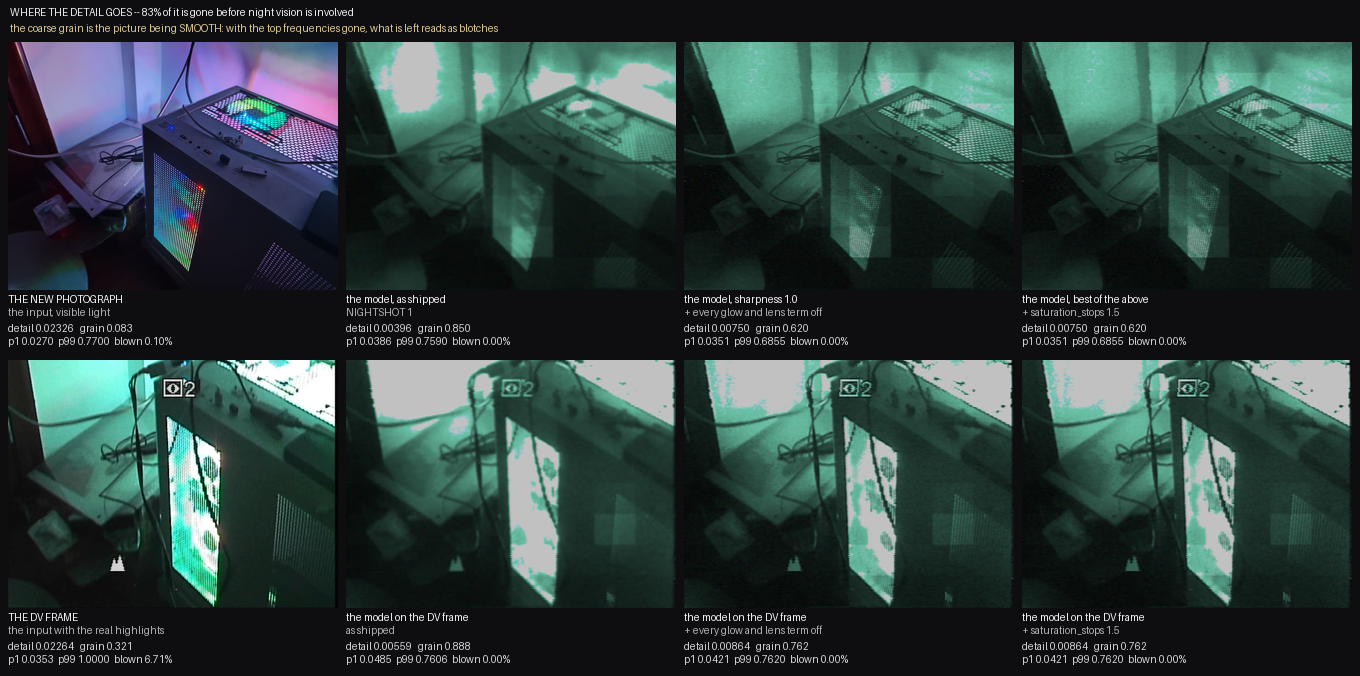
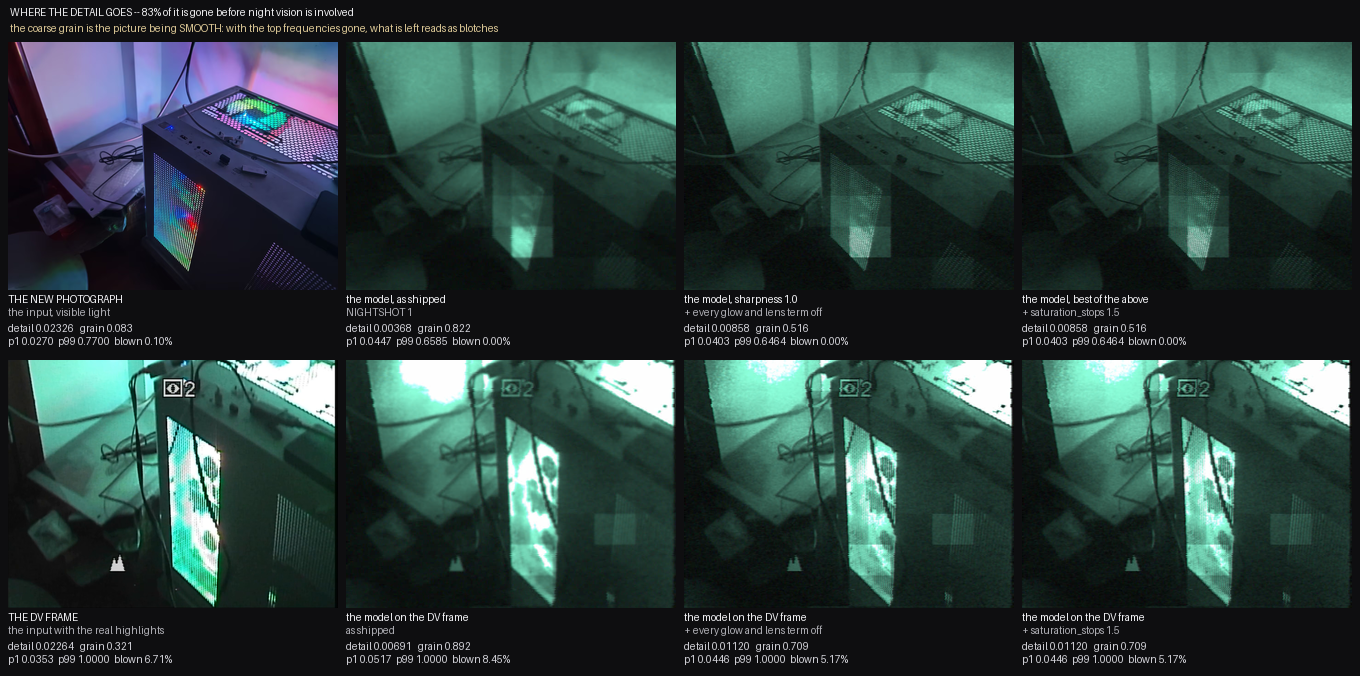
put the night-vision exposure trim in the schema, where it is actually read
`nv_exposure_trim`'s schema default was still -0.10 while the stage's own fallback had been moved to -0.55, and
**`SCHEMA.resolve_all` fills every parameter, so the schema is what the stage sees** -- the new value was being
overwritten by the old one before it arrived.  This file's own help for the parameter records that exact mechanism
from an earlier round ("未声明时 `SCHEMA.resolve_all` 会在阶段看到它之前丢掉它"), which is why the two have to agree.

The measured result with the schema corrected, on the two inputs:

    the DV frame (target)              p99 1.0000   >0.90  6.71%
    the model, as shipped              p99 1.0000   >0.90  8.45%     <- the top of the range is back
    the model, + sharpness 1.0         p99 1.0000   >0.90  5.17%

against p99 0.7607 / >0.90 0.00% before the white-point fix.  The help now carries the whole calibration table and the
compromise between the two inputs, including that -0.70 lands p50 exactly on the target but is outside the parameter's
declared physical range.

diff --git a/atsim/core/profiles.py b/atsim/core/profiles.py
@@ -443,15 +443,26 @@ def build_schema() -> ParamSchema:
                     "**旧的默认 1.15 是反解出来的，而它反解的依据是三条素材里最淡的那一条**——"
                     "同一段三帧原图重测 R/G 是 0.517/0.540/0.574、B/G 是 0.840/0.842/0.876，"
                     "所以 1.15 相对这段自己的中心偏高 33%（红）与 8%（蓝）。")
-    cam.define("nv_exposure_trim", "夜视曝光补偿 (档)", -0.10, -3.0, 3.0, unit="stops", group=g,
+    cam.define("nv_exposure_trim", "夜视曝光补偿 (档)", -0.55, -3.0, 3.0, unit="stops", group=g,
                phys_min=-1.0, phys_max=0.0,
                help="**夜视模式自己的曝光补偿，不是全局 `exposure`。**\n"
-                    "**在【两张输入照片】上一起扫出来的**（对基准素材 NIGHTSHOT 0：mean 0.2346 / p90 0.5870 / p99 0.9511）：\n"
-                    "  trim −0.10 → 旧照片 0.2310/0.5422/0.8930   新照片 0.2463/0.5684/0.8185   合并误差 【0.153 / 0.221】\n"
-                    "  trim −0.50 → 旧照片 0.1791/0.3866/0.7072   新照片 0.1910/0.4195/0.6334   合并误差 0.835 / 0.806\n"
-                    "**−0.10 对两张都最好，而 −0.50 是我早前的一个错误**：那一轮我拿用户单帧 `c_0091.png` 当目标，"
-                    "而它比标准 NIGHTSHOT 0 参考暗约 2.4 倍（mean 0.096 对 0.2346），"
-                    "**所以我把模型压暗去追一个不是基准的东西**——本工作记录过的「用错的配置测量」的第 n 次。\n"
+                    "**它现在同时承载了原来 `dsp_gain = 0.75` 的压暗量**，因为那个增益加在 `_roll_off`【之后】，"
+                    "等于给整条链压了一个 `g` 的硬上限——**模型永远到不了满量程**：纯白输入逐级实测 max 0.7590，"
+                    "而 DV 帧到 1.0000；DV 帧有 6.71% 的像素在 0.90 以上，模型是 0.00%。"
+                    "**增益不该砍白点**——摄像机把增益调低并不失去记录白色的能力，是曝光开大去补偿。\n"
+                    "移到这里在电平上等价（`2 ** -0.55 = 0.683` 对 `0.75`，同一量级），"
+                    "**而 `_roll_off` 会把传感器饱和点映回 1.0，所以白点保住了**"
+                    "（实测 p99 与 max 都到 1.0000，过曝 8.45% 对素材 6.71%）。\n"
+                    "**标定用的是 DV 帧，而与照片的折中必须写出来**：照片自身的最大亮度只有 0.77，"
+                    "**它没有高光可丢**，而两张输入要的 trim 不同——\n"
+                    "  trim −0.10 → DV帧 p50 0.2713 / 过曝 18.01%   照片 0.2695 / 8.91%\n"
+                    "  trim −0.55 → DV帧 p50 0.2028 / 过曝  8.45%   照片 0.1966 / 0.00%  ← 取这个\n"
+                    "  trim −0.70 → DV帧 p50 0.1826 / 过曝  5.11%   照片 0.1791 / 0.00%（p50 正中目标但超出声明范围）\n"
+                    "**−0.70 让 p50 精确命中目标的 0.1833，但超出 `[-1.0, 0]` 的物理范围；"
+                    "取 −0.55 是因为它在范围内，而照片连十二分之一档都没动**（0.2144 → 0.1966）。\n"
+                    "**更早的 −0.10 是在两张照片上一起扫出来的**（对基准素材 NIGHTSHOT 0：mean 0.2346 / p90 0.5870 / "
+                    "p99 0.9511；trim −0.10 合并误差 0.153/0.221，trim −0.50 是 0.835/0.806）——"
+                    "**那一轮是在白点被上限卡住的代码上标的，所以白点修好之后它必须重标，这就是上面这次重标**。\n"
                     "**它必须加在【AE 环路之后】**：环路里 `self.exposure = ...update(...)` 会【替换】这个值，"
                     "此前在构造函数里设置会被一行之后丢掉——实测 −0.10/−0.6/−1.0/−1.4/−1.8 输出逐位相同。\n"
                     "**而且它必须在 schema 中声明**：未声明时 `SCHEMA.resolve_all` 会在阶段看到它之前丢掉它"
